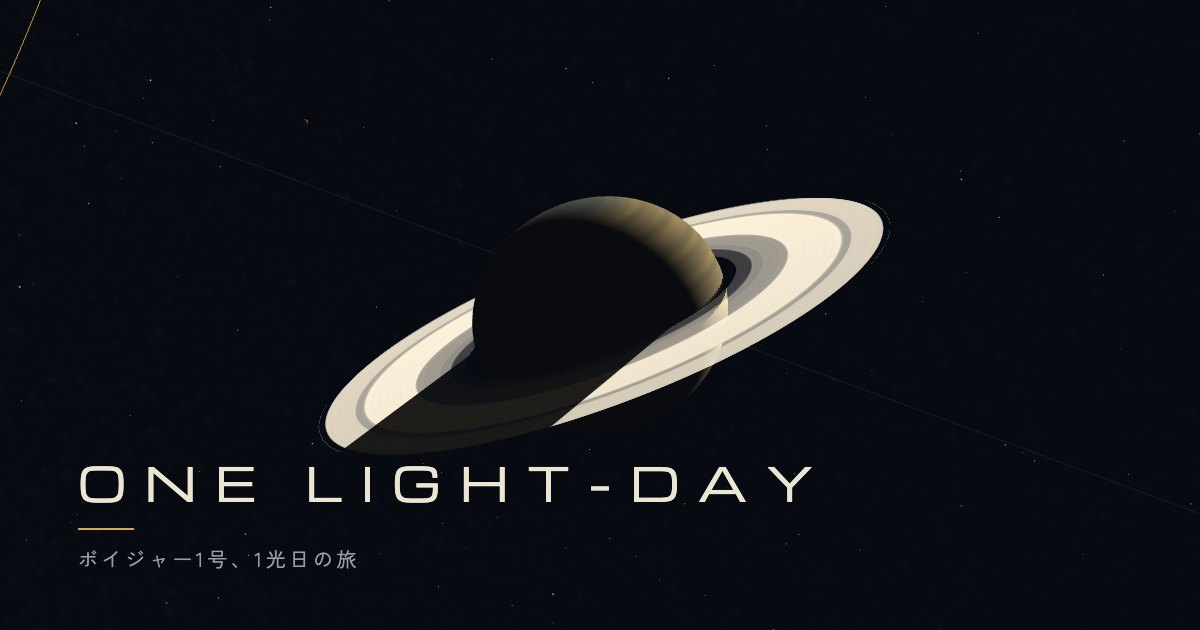
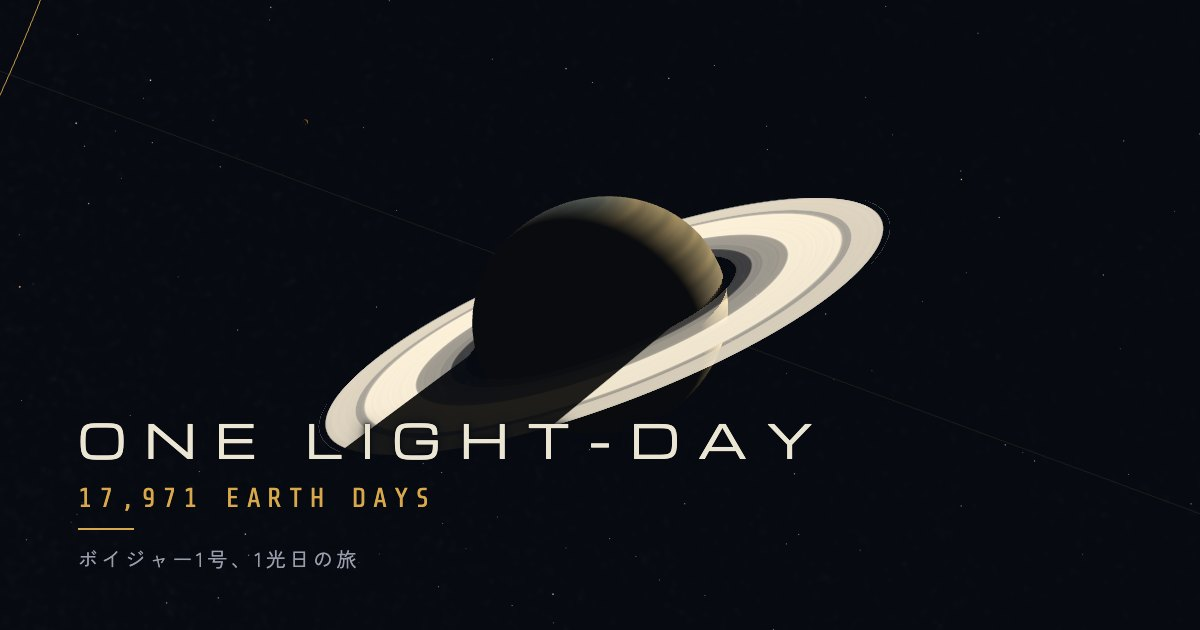
サイト名を「ONE LIGHT-DAY, 17,971 EARTH DAYS」に差し替える
- 題字の画面は 2 行(ONE LIGHT-DAY / 17,971 EARTH DAYS)。日本語の副題は残す
- タブの題、共有の説明、共有用の画像(public/og.jpg)を差し替え
- 題字を太陽の光の上へ移し、題字の間は天体の目印と名前を隠す(スマホの縦で名前が題字に重なっていた)
- あめさんの案。17,971 は打ち上げの日から、地球から 1 光日に達した日までの日数

Changed region(s): [[0.0617, 0.6635, 0.4933, 0.8143], [0.4933, 0.6635, 0.6167, 0.8143], [0.6475, 0.6635, 0.6783, 0.7841]]

diff --git a/src/App.svelte b/src/App.svelte
@@ -24,6 +24,8 @@
   let stage = $state.raw<Stage | null>(null);
   /** 操作しない間(UiLayer が知らせる)。目印の層と軌道の線を文字や目盛りと一緒に薄くする */
   let idle = $state(false);
+  /** 開いた直後の題字が出ている間か。その間は、天体の目印と名前を隠す(題字に重なって読めなくなるため) */
+  let titleShown = $state(false);
   /** 3D の表示を始められなかった(WebGL が無いなど)。静止画と案内だけを出す */
   let no3d = $state(false);
 
@@ -89,6 +91,8 @@
         );
     if (mode === 'play') created.startIntro();
     else if (mode === 'still') created.skipIntro();
+    titleShown = created.get().intro === 'title';
+    created.subscribe((s) => (titleShown = s.intro === 'title'));
     store = created;
     status = 'ready';
 
@@ -134,7 +138,7 @@
 <main class="app">
   <!-- 重ね順: 3D の canvas → 目印の層(3D の担当が使う) → 操作の部品の層 -->
   <canvas class="stage" bind:this={canvas}></canvas>
-  <div class="markers" class:idle bind:this={overlay}></div>
+  <div class="markers" class:idle class:hidden-for-title={titleShown} bind:this={overlay}></div>
 
   {#if no3d}
     <Fallback />
@@ -175,6 +179,12 @@
   /* 操作の部品と同じ薄さ・同じ速さで薄くする */
   .markers.idle {
     opacity: var(--idle-opacity);
+  }
+  /* 題字の間は目印を出さない。隠す時は一瞬で(開いた直後に名前が一度見えてから消えるのを防ぐ)、
+     題字が消えた後は、上の決まりの薄さ・濃さへなめらかに戻る */
+  .markers.hidden-for-title {
+    opacity: 0;
+    transition: none;
   }
   .message {
     position: absolute;

diff --git a/index.html b/index.html
@@ -5,13 +5,13 @@
     <meta name="viewport" content="width=device-width, initial-scale=1, viewport-fit=cover" />
     <meta name="color-scheme" content="dark" />
     <meta name="theme-color" content="#070a11" />
-    <title>ONE LIGHT-DAY</title>
+    <title>ONE LIGHT-DAY, 17,971 EARTH DAYS</title>
     <meta name="description" content="打ち上げから49年、ボイジャー1号は光で1日かかる距離まで離れました。木星と土星の通過から今日までの道のりを、日付を動かしながら3Dでたどる非公式のファンサイトです。" />
     <link rel="icon" type="image/svg+xml" href="/favicon.svg" />
     <!-- 共有した時のカード。og:url と og:image は絶対 URL が要るので、.env の VITE_SITE_URL(末尾は /)で埋める。docs/sharing.md -->
     <meta property="og:type" content="website" />
-    <meta property="og:site_name" content="ONE LIGHT-DAY" />
-    <meta property="og:title" content="ONE LIGHT-DAY ボイジャー1号、1光日の旅" />
+    <meta property="og:site_name" content="ONE LIGHT-DAY, 17,971 EARTH DAYS" />
+    <meta property="og:title" content="ONE LIGHT-DAY, 17,971 EARTH DAYS ボイジャー1号、1光日の旅" />
     <meta property="og:description" content="打ち上げから49年、ボイジャー1号は光で1日かかる距離まで離れました。木星と土星の通過から今日までの道のりを、日付を動かしながら3Dでたどる非公式のファンサイトです。" />
     <meta property="og:url" content="%VITE_SITE_URL%" />
     <meta property="og:image" content="%VITE_SITE_URL%og.jpg" />

diff --git a/src/ui/IntroOverlay.svelte b/src/ui/IntroOverlay.svelte
@@ -36,6 +36,7 @@
 
 <div class="title" class:shown={showTitle} class:quick aria-hidden="true">
   <div class="name">{txt.title}</div>
+  <div class="days">{txt.days}</div>
   <div class="sub">{txt.subtitle}</div>
 </div>
 
@@ -56,7 +57,8 @@
     text-shadow: var(--text-halo);
   }
   .title {
-    top: 50%;
+    /* 画面の中央には太陽の光がある(打ち上げの日の引きの眺め)。題字はその上に置き、光と重ねない */
+    top: 32%;
     transform: translateY(-50%);
     display: flex;
     flex-direction: column;
@@ -75,6 +77,15 @@
     /* 字間の余りが右にだけ付くので、同じだけ左を空けて中央に見せる */
     padding-left: var(--intro-title-tracking);
     color: var(--color-text);
+  }
+  /* 題字の 2 行目(日数)。数字の字体と金で、1 行目の「1」との対比を見せる */
+  .days {
+    font-family: var(--font-numeric);
+    /* スマホの幅でも読める大きさを下限にする */
+    font-size: max(var(--text-s), calc(var(--intro-title-size) * 0.56));
+    letter-spacing: calc(var(--intro-title-tracking) * 0.6);
+    padding-left: calc(var(--intro-title-tracking) * 0.6);
+    color: var(--color-gold);
   }
   .sub {
     font-family: var(--font-body);

diff --git a/src/lib/i18n/ja/intro.ts b/src/lib/i18n/ja/intro.ts
@@ -1,6 +1,13 @@
-/** 開いた直後の題字と案内。題字と副題はサイト名の仮称なので、差し替える時はここだけを直す */
+/**
+ * 開いた直後の題字と案内。
+ * サイト名は「ONE LIGHT-DAY, 17,971 EARTH DAYS」(2026-11-21 にあめさんが決定)。題字の画面では 2 行に分けて出す。
+ * 17,971 は、打ち上げの日(1977-09-05)から地球から 1 光日に達した日(2026-11-18)までの日数(画面右上の「打ち上げから◯日」と同じ数え方)。
+ * 差し替える時は、ここと index.html の題、tools/shots/shoot.mjs(共有用の画像)を直す。
+ */
 export const intro = {
   title: 'ONE LIGHT-DAY',
+  /** 題字の 2 行目。光なら 1 日、ボイジャーは 17,971 日、の対比 */
+  days: '17,971 EARTH DAYS',
   subtitle: 'ボイジャー1号、1光日の旅',
   /** 自動再生が今日で止まった時に、画面の中央より少し下へ出す 1 行 */
   guide: '下の時間軸で、好きな日へ移れます',

diff --git a/SPEC.md b/SPEC.md
@@ -1,4 +1,4 @@
-# ONE LIGHT-DAY(仮称)仕様書
+# ONE LIGHT-DAY, 17,971 EARTH DAYS 仕様書
 
 設計書(図と画面イメージつき): https://claude.ai/artifact/4wEJwGQ9V1DWWJVujNHRAr (第2版、2026-11-20 承認)
 この仕様書は設計書の要点を、実装中の判断の拠り所として書き直したもの。食い違ったら設計書を正とし、こちらを直す。
@@ -101,7 +101,7 @@ NASA の探査機ボイジャー1号の、打ち上げ(1977年9月5日)から今
 
 ## 置いた仮定・未確認事項
 
-- サイト名は仮称。公開までにあめさんが決める
+- サイト名は「ONE LIGHT-DAY, 17,971 EARTH DAYS」(2026-11-21 にあめさんが決定)。URL の末尾は短い `one-light-day` のまま
 - 公開の目標日は未定(候補: 太陽から測って1光日になる 2027年2月4日ごろ)
 - 惑星の画像と恒星カタログの使用条件は、取得する時にそのページで確認し、第3段階の最初に一覧にしてあめさんが確認する
 
@@ -117,6 +117,7 @@ NASA の探査機ボイジャー1号の、打ち上げ(1977年9月5日)から今
 | 2026-11-21 | 時間軸の名場面の刻みは、ポインタでは時間軸が受け、動かさずに離した位置が刻みの近くなら名場面へ移る | 「今日」の位置でつまみと刻み(1光日)が重なり、つまみをつかめなかった |
 | 2026-11-21 | 見た目は「計器盤」の案(題字 Michroma、金の細い線、四隅の括弧)。数字だけ「端末」の案の字体(Share Tech Mono)。本文は Zen Kaku Gothic New | あめさんの選択 |
 | 2026-11-21 | フォントはパッケージから同梱する(詳細は docs/assets/fonts.md) | 外部へ読みに行かない決まりを守る |
+| 2026-11-21 | サイト名は「ONE LIGHT-DAY, 17,971 EARTH DAYS」。題字の画面では 2 行に分け、日本語の副題「ボイジャー1号、1光日の旅」を残す | あめさんの案。光なら 1 日、ボイジャーは 17,971 日、の対比。17,971 は画面の「打ち上げから◯日」と同じ数え方 |
 | 2026-11-21 | 第3段階の素材は docs/assets/stage3-assets.md の一覧どおり。土星と環はプログラムで描く。天の川は非営利の条件つき(ESA の Gaia) | あめさんの承認。NASA 公式の土星の地図が見つからず、個人の方の地図は同梱できない条件だった |
 | 2026-11-21 | ボイジャーと衛星の相対位置は、同じ惑星を中心にしたデータどうしの差で出す | 太陽中心の位置どうしの差では、タイタンとの距離が約 1,250km ずれた |
 | 2026-11-21 | ペイル・ブルー・ドットの写真は、長辺 1600 画素に縮めて同梱する | 配布されている版(5230×5175)は、スマホで展開に 100MB 以上のメモリを使う |

diff --git a/PROGRESS.md b/PROGRESS.md
@@ -80,6 +80,12 @@
 - `npm run verify`: テスト 221 件。最初に読み込む量 1.31MB(目標 2MB)、全体 8.9MB(目標 20MB)。`node tools/perf/measure.mjs`: 4 場面とも毎秒 59〜60 コマ、止めている間の描き直し 0、コンソールのエラーなし
 - まだ確かめていない: 数字の桁が回る動き(担当の確認のみ)、「このサイトについて」のスマホの縦画面(担当の確認のみ)、X に貼った時の実際のカードの見え方(公開後でないと確かめられない)
 
+### サイト名の差し替え(2026-11-21)
+
+- サイト名を「ONE LIGHT-DAY, 17,971 EARTH DAYS」に差し替え(題字の画面は 2 行、タブの題、共有の説明、共有用の画像)。17,971 は打ち上げの日から 1 光日に達した日までの日数で、画面の「打ち上げから◯日」と同じ数え方
+- 題字の画面を PC とスマホの縦(375×812)で目視。題字を太陽の光の上(画面の上から 32%)へ移し、題字の間は天体の目印と名前を隠した(スマホの縦で「ボイジャー1号」の名前が題字の 2 行目に重なっていた)
+- 共有用の画像 `public/og.jpg` を撮り直して目視。`npm run verify` が通る
+
 ### この環境では確かめられないこと(あめさんにお願いする確認)
 
 - スマホの実機(iPhone / Android)での滑らかさ、指でのドラッグ・ピンチ、ホームバーとの重なり
@@ -90,6 +96,5 @@
 - 地球の画像が 2,048 画素までしか取得できていない(寄ると少しぼやける)
 - 木星の大赤斑の位置が実際と合わない(経度の基準が仮)
 - 名場面の短い文と「このサイトについて」の本文は下書き(あめさんの確認待ち。一覧は docs/texts.md)
-- 題字の画面で、太陽の光条が題字に重なる
 - `svelte-check` の警告 11 件(`store` の初期値だけを参照。実害なし)
 - 近くにある天体の名前が、隣の目印の輪に重なることがある(1990 年の地球と太陽など)→ 第3段階で名前を太陽と反対の側に出す

diff --git a/docs/texts.md b/docs/texts.md
@@ -21,7 +21,8 @@
 
 | キー | 文言 | どこに出るか |
 |---|---|---|
-| intro.title | ONE LIGHT-DAY | 開いた直後の中央の題字 |
+| intro.title | ONE LIGHT-DAY | 開いた直後の中央の題字(1 行目) |
+| intro.days | 17,971 EARTH DAYS | 開いた直後の題字の 2 行目(打ち上げから、地球から 1 光日に達した日までの日数) |
 | intro.subtitle | ボイジャー1号、1光日の旅 | 開いた直後の題字の下の副題 |
 | intro.guide | 下の時間軸で、好きな日へ移れます | 自動再生が今日で止まった後、画面の中央より少し下に出る案内 |
 
